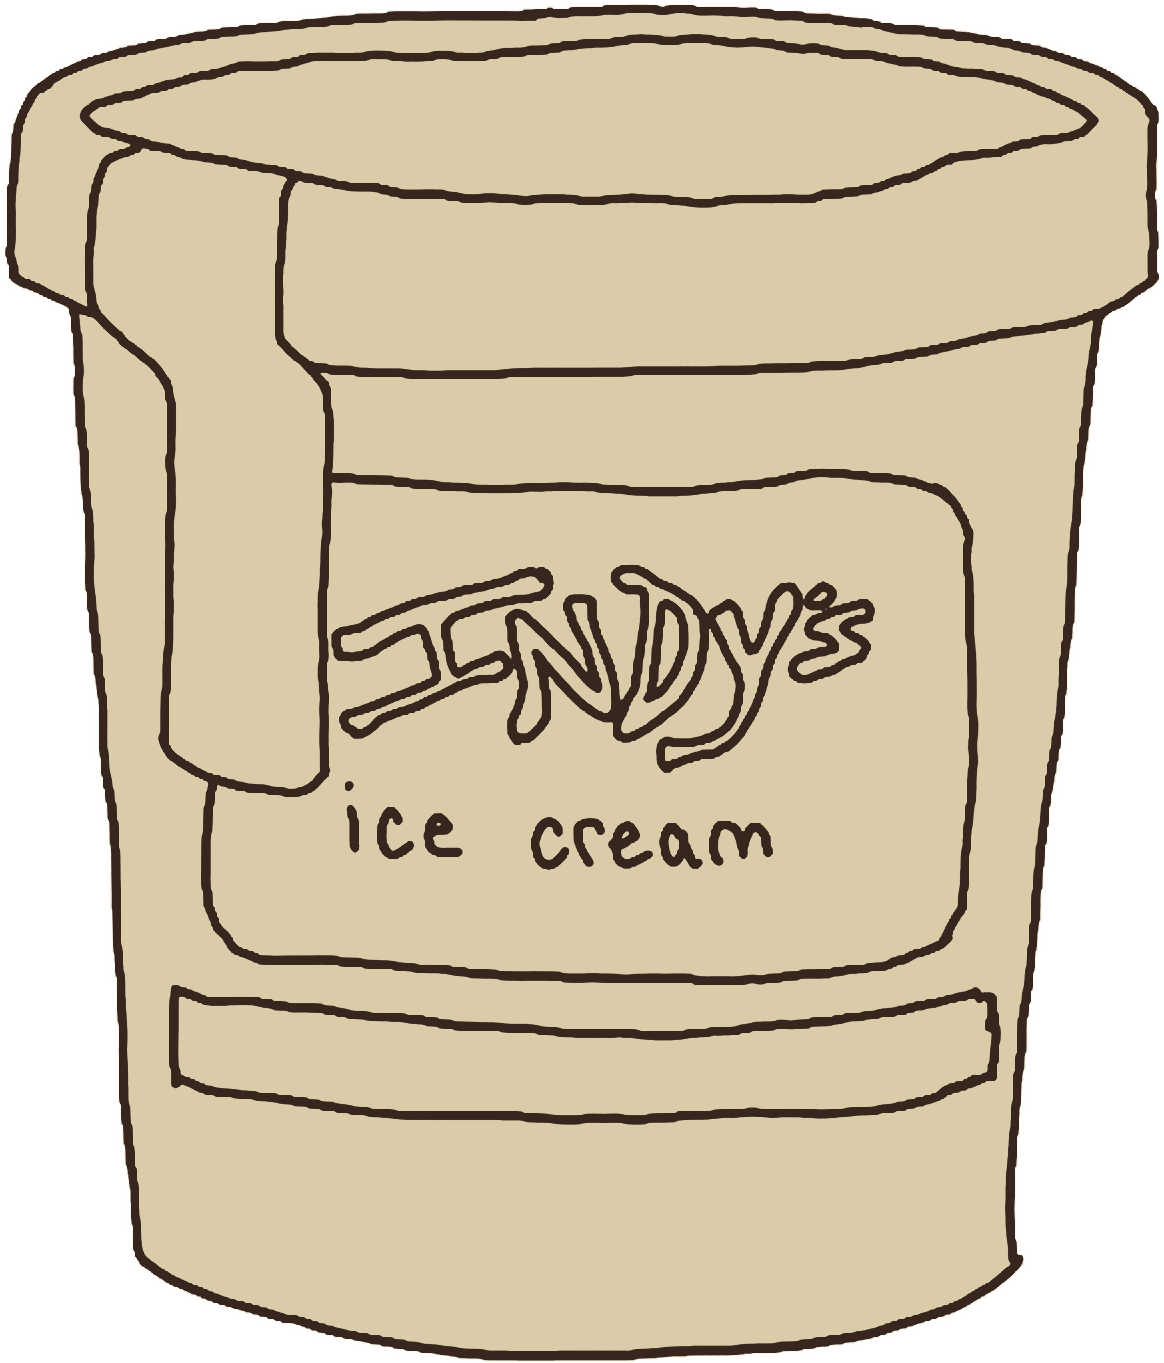
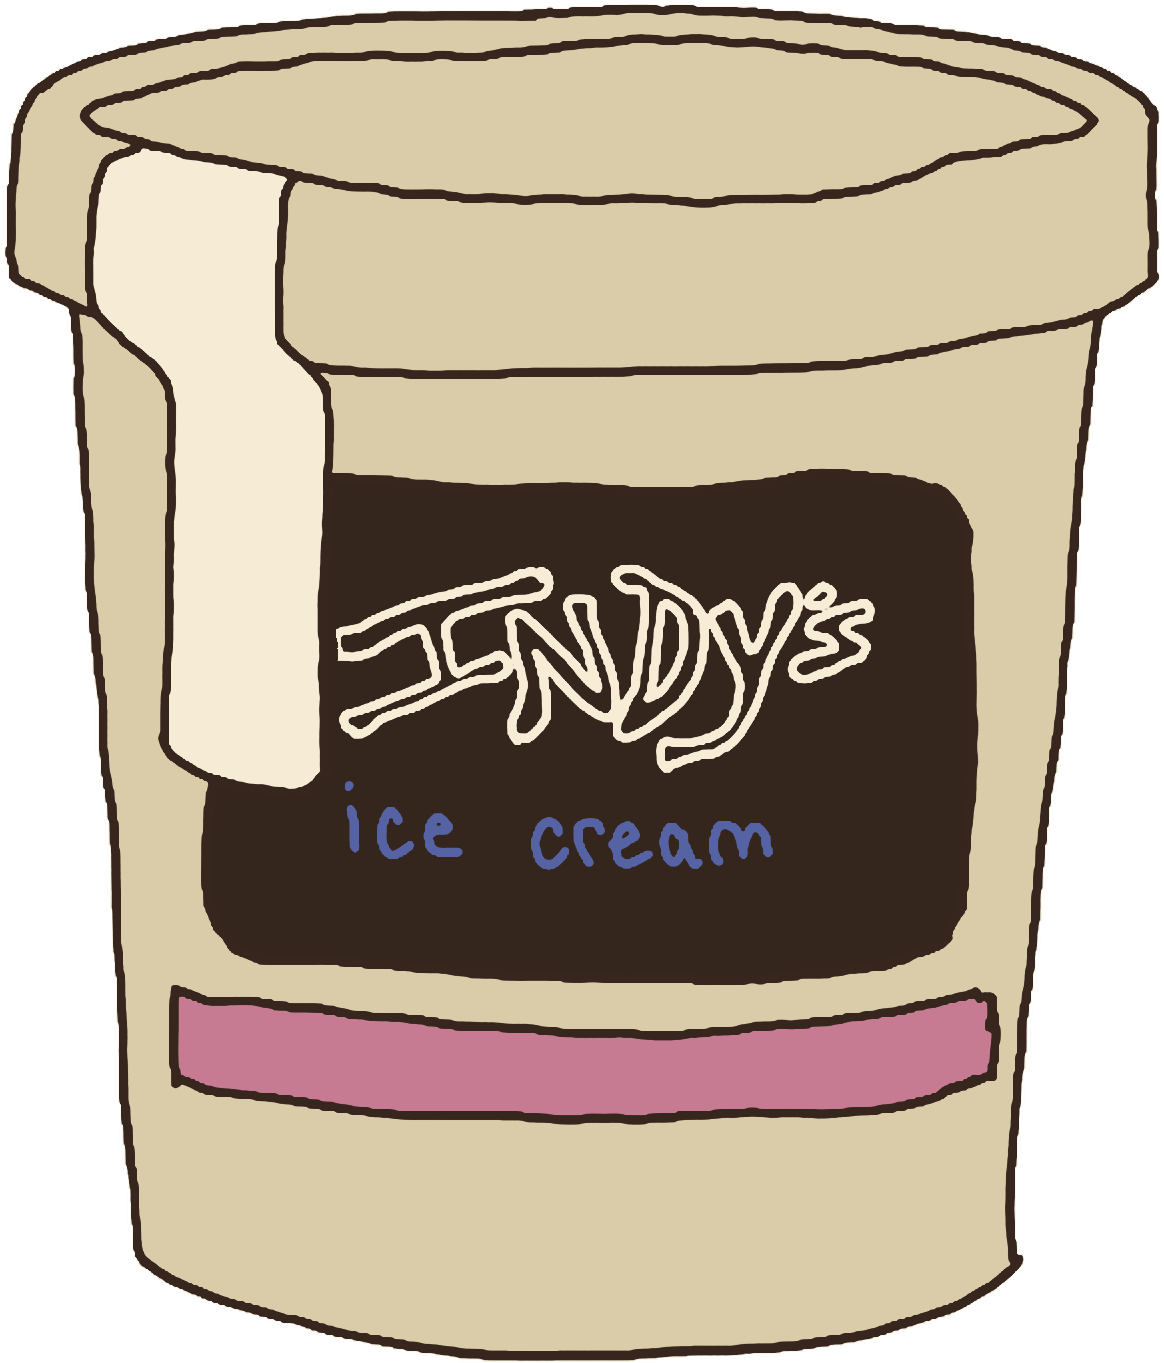
Lock in pint option C and remove unused images
Keeps the packaging-style pint (chocolate label, cream logo, blue 'ice
cream', pink stripe) as assets/img/hero-pint.png; removes the other
five color variants, the old headline cut-out and the unused cone.

Claude-Session: https://claude.ai/code/session_01WBoW2junM9Q6eY8gDoSvkc

diff --git a/index.html b/index.html
@@ -62,10 +62,8 @@
 
     <!-- ===== Hero ===== -->
     <section class="hero" id="join">
-      <!-- pint color options: pint-a ... pint-f (see assets/img/pint/). Change both the
-           data-pint letter and the file name to switch. -->
-      <div class="hero__art" data-pint="c">
-        <img src="assets/img/pint/pint-c.png" alt="Hand-drawn Indy's ice cream pint" width="1164" height="1363">
+      <div class="hero__art">
+        <img src="assets/img/hero-pint.png" alt="Hand-drawn Indy's ice cream pint" width="1164" height="1363">
         <span class="hero__flavor" data-pint-flavor aria-hidden="true">top secret</span>
       </div>
 

diff --git a/styles.css b/styles.css
@@ -235,7 +235,6 @@ a { color: inherit; }
 .hero__art { grid-area: art; position: relative; justify-self: center; width: min(100%, 620px); container-type: inline-size; }
 .hero__art img { width: 100%; }
 /* the flavor band on the drawn pint */
-[data-pint="a"] { --band-ink: var(--cream); }
 .hero__flavor {
   position: absolute;
   left: 15.9%; width: 67.4%;
@@ -244,7 +243,7 @@ a { color: inherit; }
   font-family: var(--f-marker);
   font-size: 5cqw;
   line-height: 1;
-  color: var(--band-ink, var(--choc));
+  color: var(--choc);
   transform: rotate(.8deg);
 }
 

diff --git a/README.md b/README.md
@@ -36,6 +36,6 @@ It works on any static host. Two easy options:
 index.html          the page
 styles.css          all the styling (colors are at the top under :root)
 script.js           settings + monthly drops
-assets/img/         logo, cone drawing and Indy's photo (cut out from the original sketch)
+assets/img/         logo, the hand-drawn pint, and Indy's photo
 google-sheets/      the script that saves sign-ups into a Google Sheet
 ```
